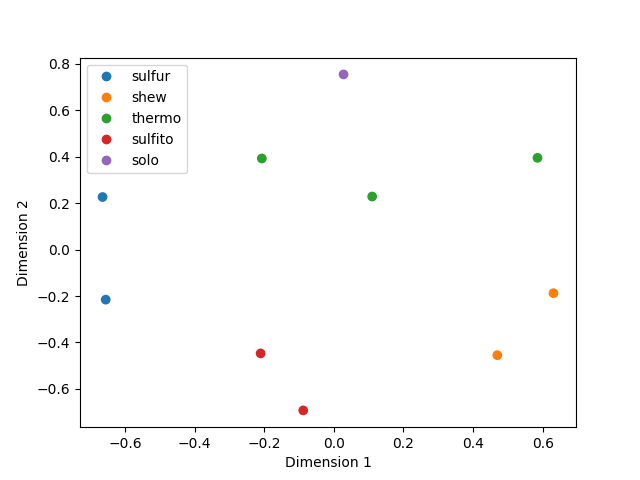
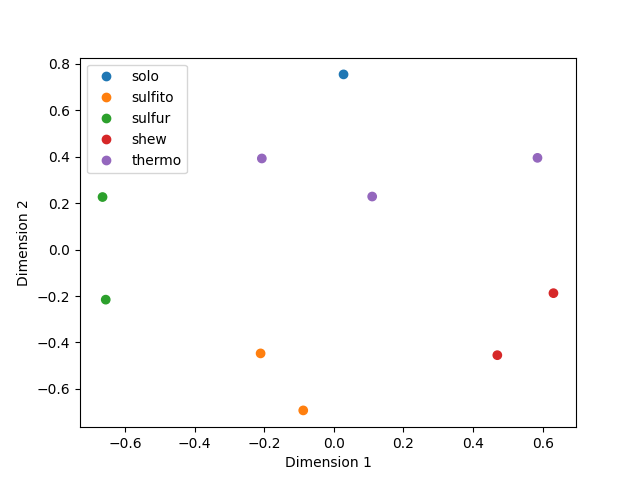
try to make mds plot reproducible

diff --git a/src/sourmash_plugin_betterplot.py b/src/sourmash_plugin_betterplot.py
@@ -56,6 +56,8 @@ def load_categories_csv(filename, labelinfo):
 
         if key:
             category_values = list(set([row["category"] for row in categories]))
+            category_values.sort()
+
             cat_colors = list(map(plt.cm.tab10, range(len(category_values))))
             category_map = {}
             for v, color in zip(category_values, cat_colors):
@@ -188,7 +190,6 @@ class Command_Plot2(CommandLinePlugin):
         )
 
     def main(self, args):
-        # code that we actually run.
         super().main(args)
         plot2(args)
 
@@ -383,7 +384,6 @@ class Command_MDS(CommandLinePlugin):
         subparser.add_argument("-o", "--output-figure", required=True)
 
     def main(self, args):
-        # code that we actually run.
         super().main(args)
 
         with open(args.comparison_matrix, "rb") as f:
@@ -397,11 +397,6 @@ class Command_MDS(CommandLinePlugin):
         if args.categories_csv:
             category_map, colors = load_categories_csv(args.categories_csv, labelinfo)
 
-        # Example usage
-        # Assume object indices instead of names for simplicity
-        # similarity_tuples = [(0, 1, 0.7), (0, 2, 0.4), (1, 2, 0.5)]
-        # num_objects = 3  # You should know the total number of objects
-        # sparse_matrix = create_sparse_similarity_matrix(similarity_tuples, num_objects)
         dissim = 1 - mat
         plot_mds(dissim, colors=colors, category_map=category_map)
 
@@ -427,7 +422,6 @@ class Command_MDS2(CommandLinePlugin):
         subparser.add_argument("-o", "--output-figure", required=True)
 
     def main(self, args):
-        # code that we actually run.
         super().main(args)
 
         with sourmash_args.FileInputCSV(args.comparison_csv) as r:
@@ -473,12 +467,6 @@ class Command_MDS2(CommandLinePlugin):
 
         #    for label, n in sample_d.items():
         #        w.writerow([n, label])
-
-        # Example usage
-        # Assume object indices instead of names for simplicity
-        # similarity_tuples = [(0, 1, 0.7), (0, 2, 0.4), (1, 2, 0.5)]
-        # num_objects = 3  # You should know the total number of objects
-        #mat = create_sparse_dissimilarity_matrix(pairs, len(queries))
 
         # load categories?
         category_map = None
